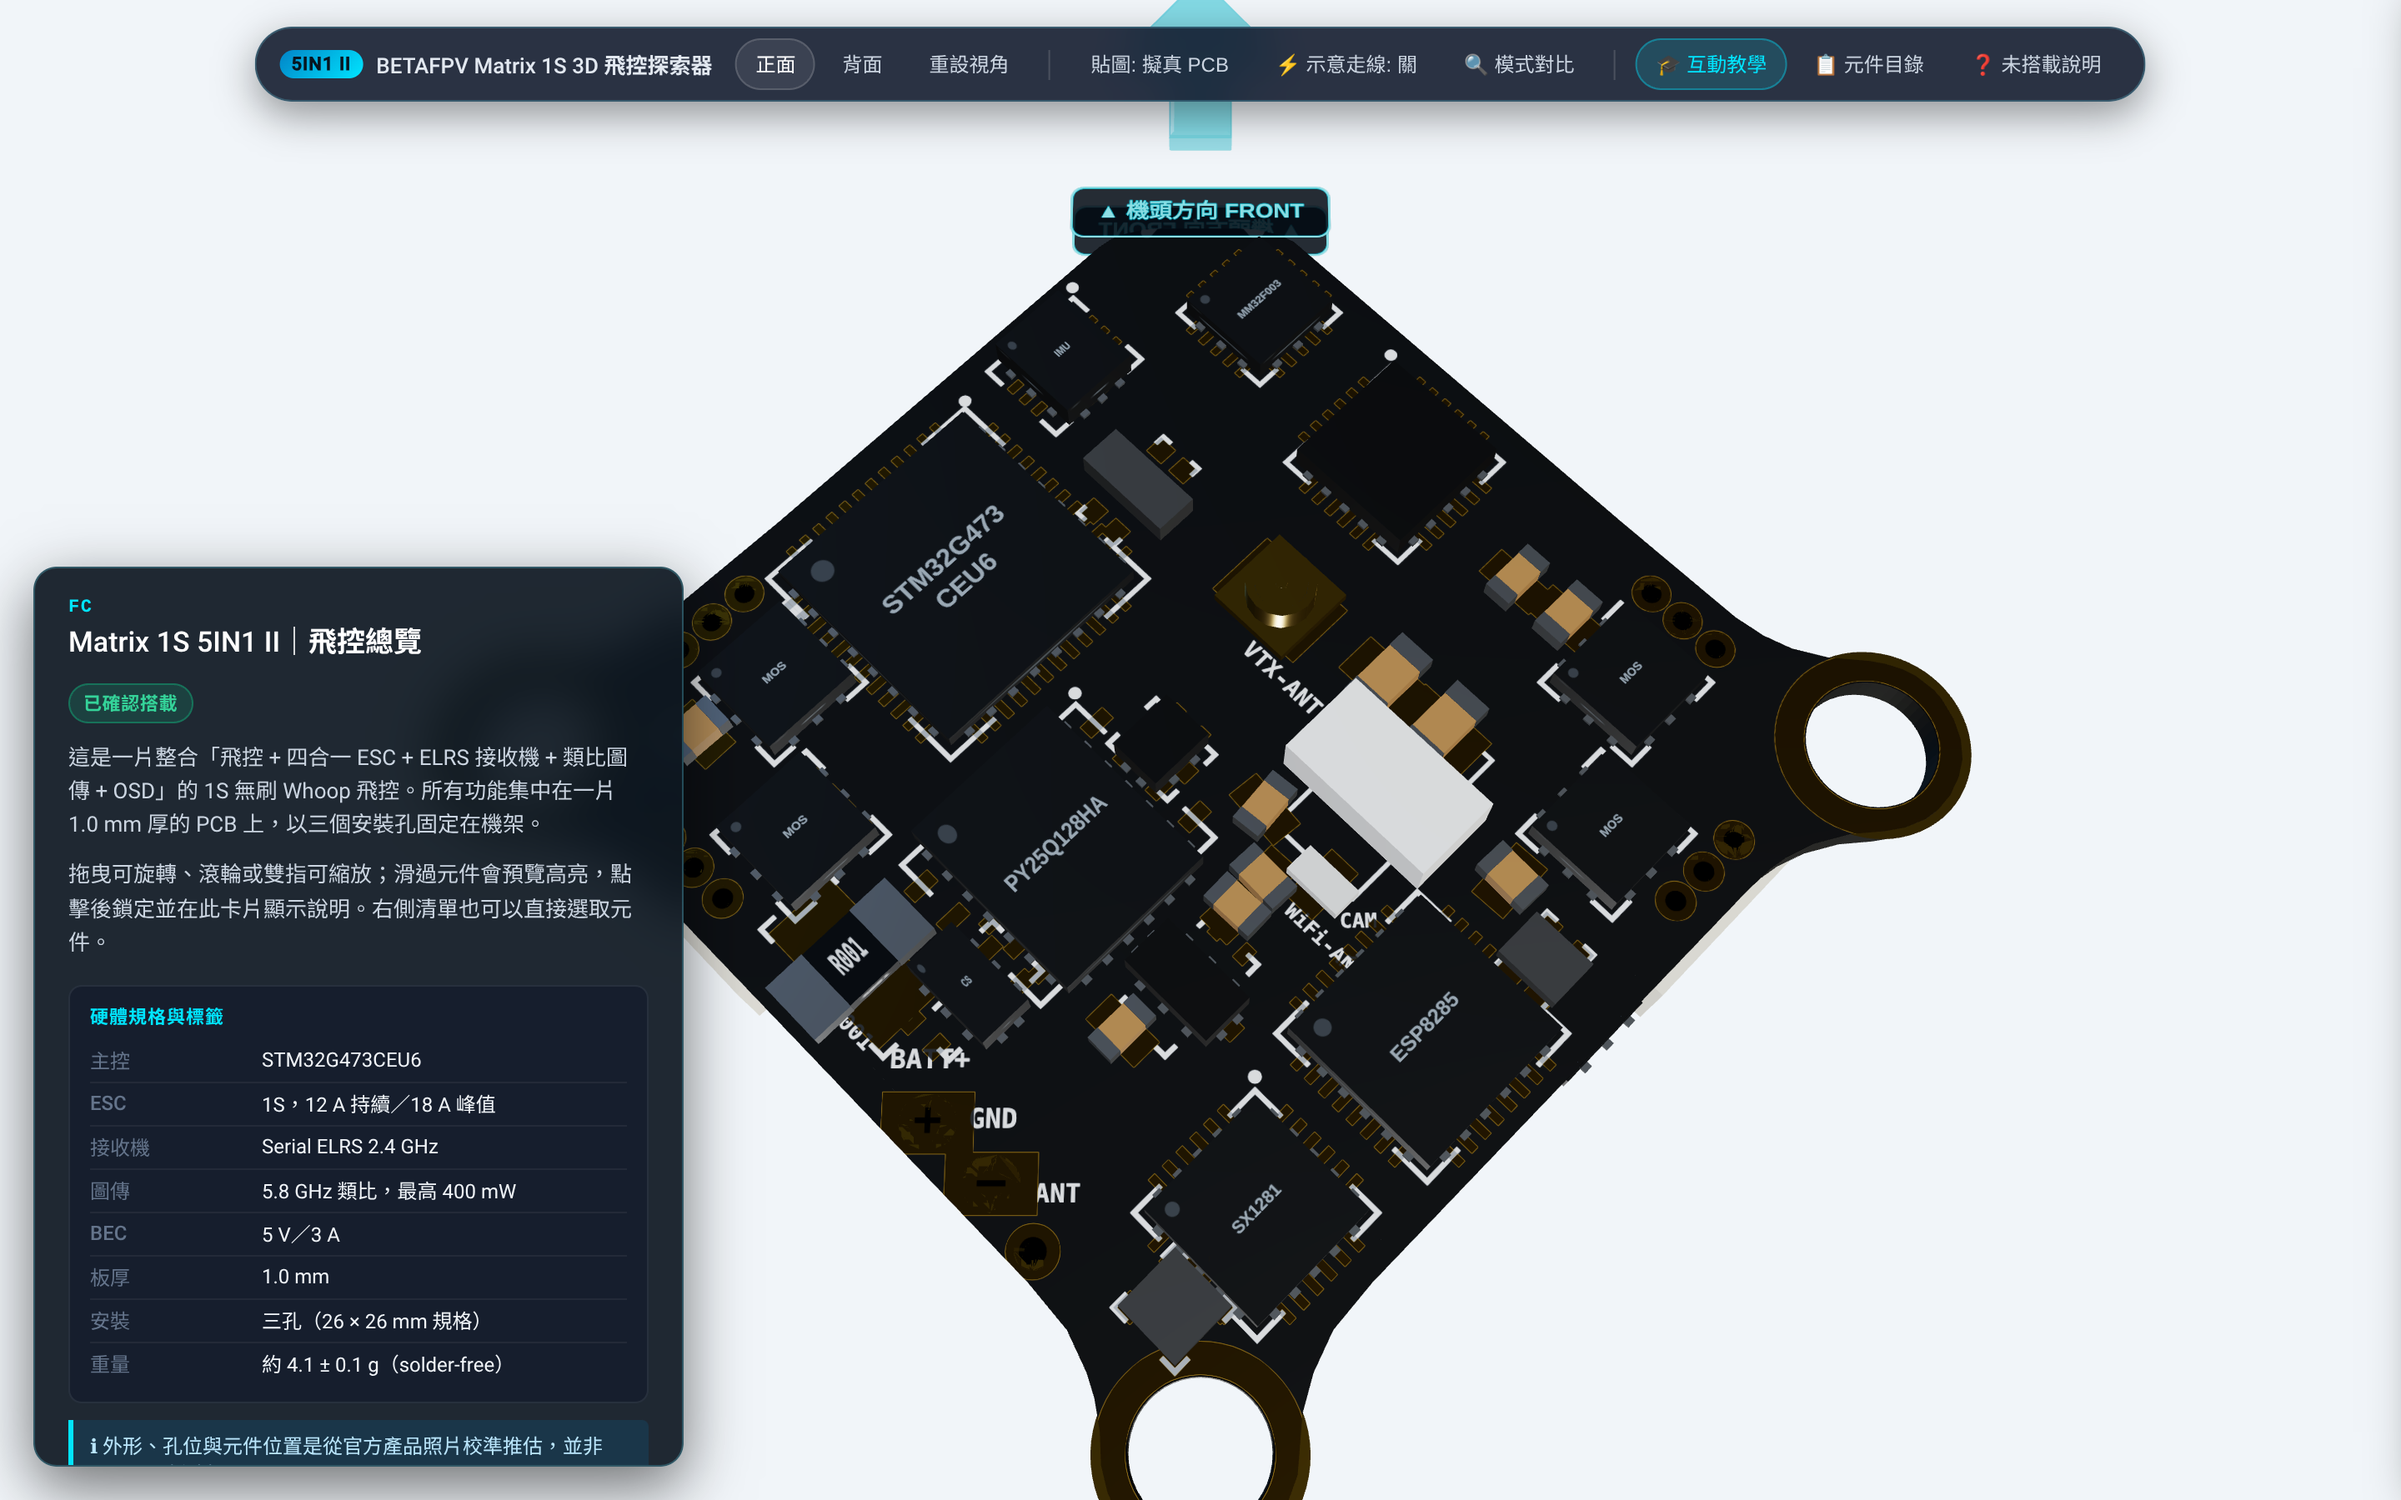
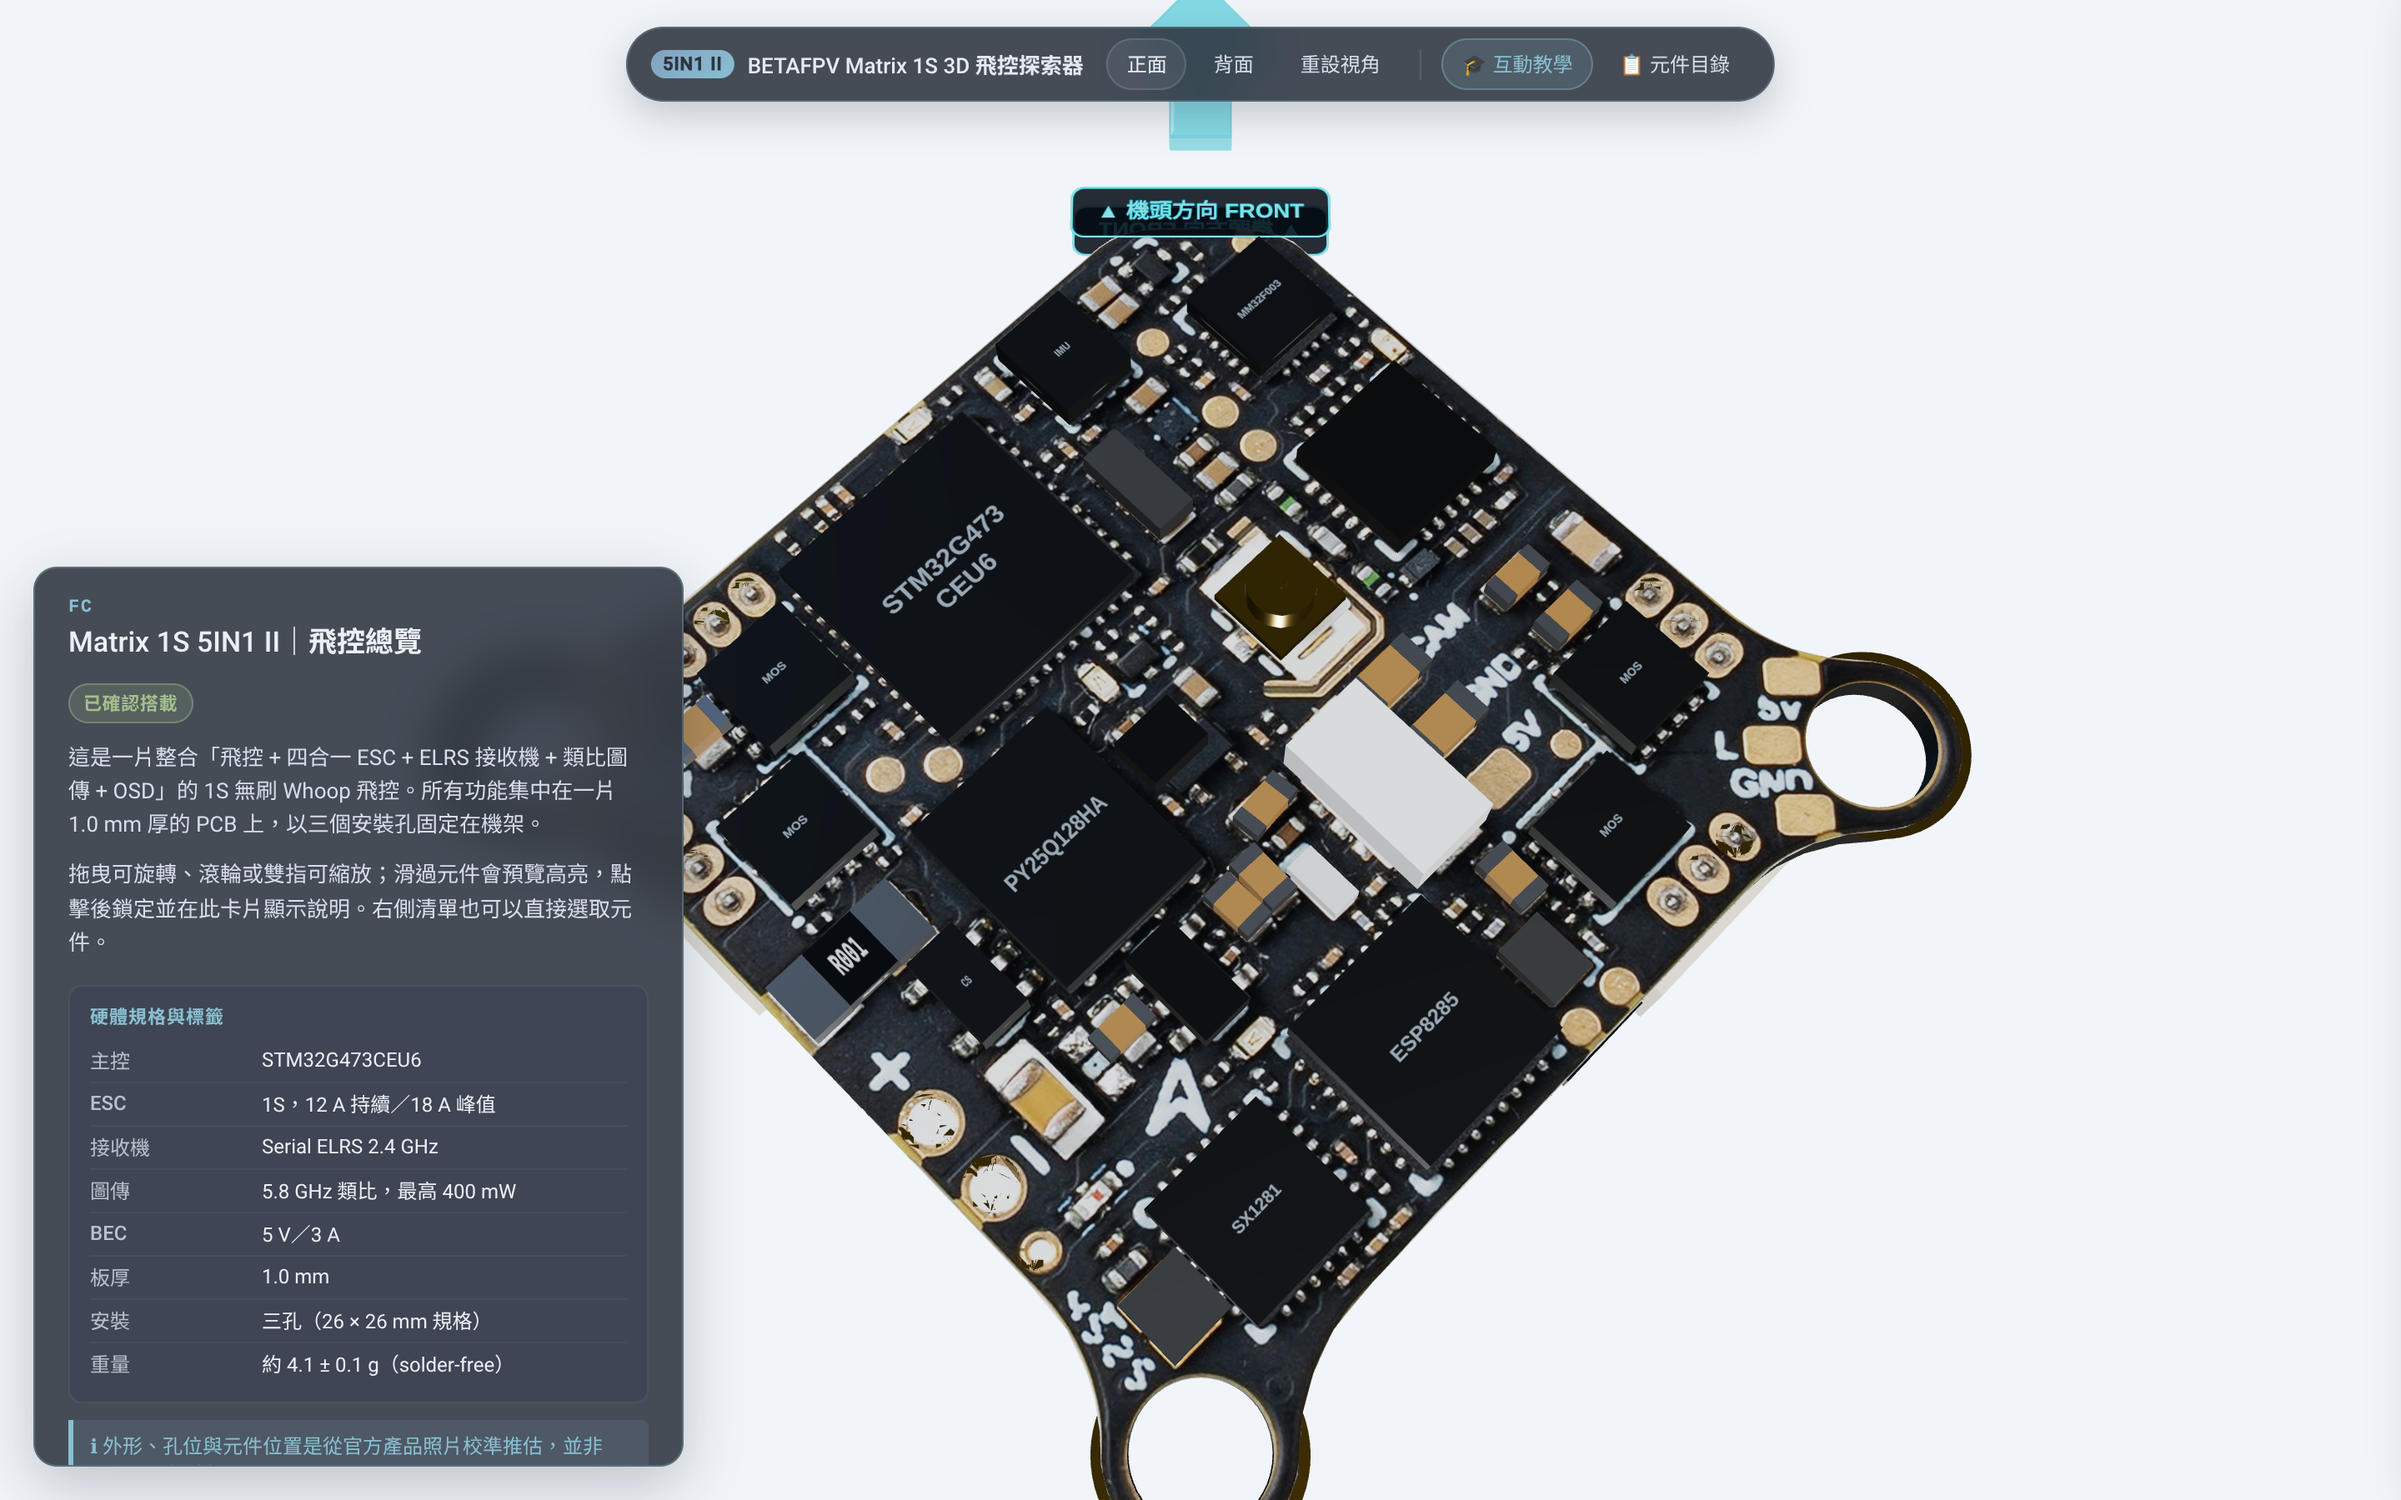
docs: refresh photo explorer documentation and verification screenshots

diff --git a/README.md b/README.md
@@ -7,7 +7,7 @@
 [![Vite](https://img.shields.io/badge/Vite-6.x-646CFF?logo=vite)](https://vitejs.dev/)
 [![Hardware](https://img.shields.io/badge/Target-BETAFPV%205IN1%20II%20(3--Hole)-brightgreen)](https://betafpv.com/products/matrix-1s-5in1-ii-brushless-flight-controller)
 
-An engineering-grade, double-sided **Three.js PBR 3D reconstruction** and interactive hardware explorer for the **BETAFPV Matrix 1S Brushless Flight Controller (5IN1 II)**. Strictly modeled after official BETAFPV documentation, high-resolution product photos, and verified specifications. Features educational hardware annotations and an interactive walk-through tutorial in Traditional Chinese (正體中文).
+A photo-referenced, double-sided **Three.js PBR 3D visualization** and interactive hardware explorer for the **BETAFPV Matrix 1S Brushless Flight Controller (5IN1 II)**. Uses official BETAFPV documentation and product photos for hardware identification. Component positions, 3D shapes, and material parameters are visual approximations, not verified manufacturing data. Visible IC contacts require explicit sourced geometry. Both PCB faces always use rectified manufacturer photographs. Features educational hardware annotations and an interactive walk-through tutorial in Traditional Chinese (正體中文).
 
 ---
 
@@ -17,15 +17,15 @@ The 3D model and interactive features have been automatically validated using he
 
 | View / Feature | Preview & Visual Evidence |
 | :--- | :--- |
-| **Top Face 3-Way Comparison** (Official Photo vs. Photo Mode vs. Procedural Mode) | ![Top Face 3-Way Comparison](tools/screenshots/12_comparison_three_way_top.png) |
-| **Bottom Face 3-Way Comparison** (Official Photo vs. Photo Mode vs. Procedural Mode) | ![Bottom Face 3-Way Comparison](tools/screenshots/13_comparison_three_way_bottom.png) |
-| **Interactive 3-Way Comparison Modal** | ![Comparison Modal](tools/screenshots/10_comparison_modal.png) |
-| **Perspective Overview (Procedural PCB)** | ![Perspective Overview](tools/screenshots/01_overview.png) |
+| **Top Face Photo Comparison** | ![Top Face Photo Comparison](tools/screenshots/10_comparison_top.png) |
+| **Bottom Face Photo Comparison** | ![Bottom Face Photo Comparison](tools/screenshots/11_comparison_bottom.png) |
+| **Perspective Overview (Photo Texture)** | ![Perspective Overview](tools/screenshots/01_overview.png) |
 | **MCU Macro Focus & Info Card** | ![MCU Selected](tools/screenshots/04_mcu_selected.png) |
 | **Bottom View & AT7456E OSD** | ![Bottom OSD Selected](tools/screenshots/06_osd_bottom_selected.png) |
-| **Photographic Texture Mode** | ![Photographic Mode](tools/screenshots/02b_top_photo.png) |
+| **Photographic Texture Mode** | ![Photographic Mode](tools/screenshots/02_top_view.png) |
+| **BOOT Button & Firmware Entry** | ![BOOT Button](tools/screenshots/09_boot_button.png) |
+| **UART1 Wiring Reference** | ![UART1 Pads](tools/screenshots/12_uart_pads.png) |
 | **Interactive Guided Tutorial** | ![Tutorial Step](tools/screenshots/07_tutorial_step.png) |
-| **Absent Features Clarification Modal** | ![Absent Features Modal](tools/screenshots/09_absent_modal.png) |
 
 ---
 
@@ -47,31 +47,26 @@ This project strictly models the **5IN1 II (Second Generation)**, and deliberate
    - **VTX**: Integrated 5.8 GHz 400mW analog video transmitter with U.FL antenna jack
    - **USB Interface**: SH1.0-4Pin micro-connector (not an onboard direct USB-C socket)
    - **Battery**: BT2.0 1S power leads
-4. **Explicitly Absent Hardware (Strict Non-Fabrication Rule)**:
-   - ❌ **Barometer**: Officially unlisted; **not fabricated on the 3D PCB**.
-   - ❌ **MicroSD Card Slot**: Officially unlisted; **not fabricated on the 3D PCB**.
-   - Both are clearly explained in the interactive glossary with the status badge: `"未列於此機型官方規格"` (Not listed in official specifications for this model).
-5. **Physical Accuracy Guardrails (Physical Accuracy > Visual Decoration > Component Density)**:
-   - ✅ **Solid Mounting Rings**: Clean ENIG annular rings without invented thermal relief spokes.
-   - ✅ **Zero Unverified Vias**: All unverified ground stitching via arrays have been removed.
-   - ✅ **Package-Specific Footprints**: Hand-crafted footprints for UFQFPN-48 (STM32G473), LGA-14 (IMU), USON-8 (Flash), QFN-24 (SX1281), QFN-32 (ESP8285), QFN-20 (BB51), PDFN3333 DFN-8 (Power MOSFETs), SSOP/QFN-28 (AT7456E), SOT-23, 2512 Shunt, JST-1.25, and SH1.0.
-   - ✅ **Zero Invented Traces**: No fake or made-up electrical copper routing on the PCB surface.
-   - ⚠ **Illustrative Schematic Overlay**: Clearly marked educational bus overlay, separated from physical PCB geometry.
+4. **Visualization Limits**:
+   - Both PCB faces use manufacturer photographs; there is no synthetic PCB texture mode or electrical overlay.
+   - Component shapes and positions are photo-based approximations, not verified CAD.
+   - ICs without documented package geometry use simplified bodies without invented contacts or pin-1 marks. `src/data/footprints.ts` defines sourced visible-contact geometry; no production IC definitions are currently enabled.
+   - Photos cannot establish hidden pads, internal layers, or electrical connectivity. Material settings describe appearance, not measured hardware properties.
 
 ---
 
 ## ✨ Key Features
 
-- **PBR Photorealistic & Vector Silkscreen Modes**:
-  - Seamlessly toggle between perspective-rectified high-resolution product photography and high-contrast vector CAD artwork.
+- **Manufacturer Photo Textures**:
+  - Both board faces display perspective-rectified product photographs. The app has no texture-mode switch or comparison modal. `just compare` generates offline source-photo/model comparisons for visual inspection.
 - **Occlusion-Aware Raycast Picking**:
   - Raycaster accounts for opaque substrate intersections, completely eliminating accidental picking of back-face chips through the board.
-- **Fixed Bottom-Left Information HUD Card**:
-  - Anchored at bottom-left, displaying Traditional Chinese hardware titles, status badges (`已確認搭載`, `型號依批次不同`, `推估位置`, `未列於此機型官方規格`), functional descriptions, verified specs table, and camera focus shortcuts.
+- **Nord Information Cards**:
+  - Nord Polar Night panels use 88% opacity with backdrop blur, Snow Storm text, and Frost accents. The bottom-left card displays Traditional Chinese hardware titles, status badges (`已確認搭載`, `型號依批次不同`, `推估位置`), functional descriptions, verified specs table, and camera focus shortcuts.
 - **Component Catalog Drawer with Active Highlights**:
-  - Sidebar drawer allows pilots to browse all components; stays open during browsing with persistent active selection highlights.
-- **12-Step Guided Educational Tutorial**:
-  - Step-by-step interactive walk-through covering coordinate conventions, core chips, RF systems, ESC power stages, and sensor concepts.
+  - Sidebar drawer allows pilots to browse all components; stays open during browsing with persistent active selection highlights. Confirmed interface cards cover BOOT, camera input, 5V/GND power, UART1, buzzer pads, and LED connections. Cards for pads without modeled geometry link to the manufacturer wiring diagram.
+- **11-Step Guided Educational Tutorial**:
+  - Step-by-step interactive walk-through covering coordinate conventions, core chips, RF systems, ESC power stages, and onboard sensors.
 - **Gimbal-Lock Free Camera Navigation**:
   - Smooth cubic-eased camera transitions for front, bottom, reset, and component macro-views with singularity-protected polar clamps.
 
@@ -100,16 +95,15 @@ fc_overview/
 ├── index.html                 # Web app shell
 ├── package.json
 ├── public/
-│   ├── assets/                # Rectified homographic textures & vector artwork
+│   ├── assets/                # Rectified manufacturer photo textures
 │   │   ├── top_photo.jpg
-│   │   ├── bottom_photo.jpg
-│   │   ├── top_artwork.png
-│   │   └── bottom_artwork.png
+│   │   └── bottom_photo.jpg
 │   └── references/            # Original manufacturer downloads & URL audit
 │       ├── top_front_labeled.jpg
 │       ├── bottom_front_labeled.jpg
 │       ├── solderfree_front.jpg
 │       ├── solderfree_back.jpg
+│       ├── connection_diagram.jpg # Official peripheral wiring reference
 │       └── SOURCE.md
 ├── src/
 │   ├── data/
@@ -132,8 +126,8 @@ fc_overview/
 │   ├── ui/
 │   │   ├── infoCard.ts        # Fixed bottom-left HUD card
 │   │   ├── toolbar.ts         # Top frosted glass navigation toolbar
-│   │   ├── tutorial.ts        # 12-step guided interactive walkthrough
-│   │   └── glossary.ts        # Component drawer & absent features modal
+│   │   ├── tutorial.ts        # 11-step guided interactive walkthrough
+│   │   └── componentDrawer.ts # Onboard component drawer
 │   ├── main.ts                # Application bootstrap & event orchestration
 │   └── styles.css             # Glassmorphism UI stylesheet
 └── tools/
@@ -169,10 +163,13 @@ just build
 # Preview production build locally
 just preview
 
+# Check IC geometry, photo loading, and texture disposal (requires Chrome)
+npm run check:hardware
+
 # Run automated browser test and capture UI screenshots
 just screenshots
 
-# Generate side-by-side visual comparisons against official diagrams
+# Generate side-by-side visual comparisons against official photographs
 just compare
 
 # Run complete verification suite (typecheck + build + screenshots + compare)
